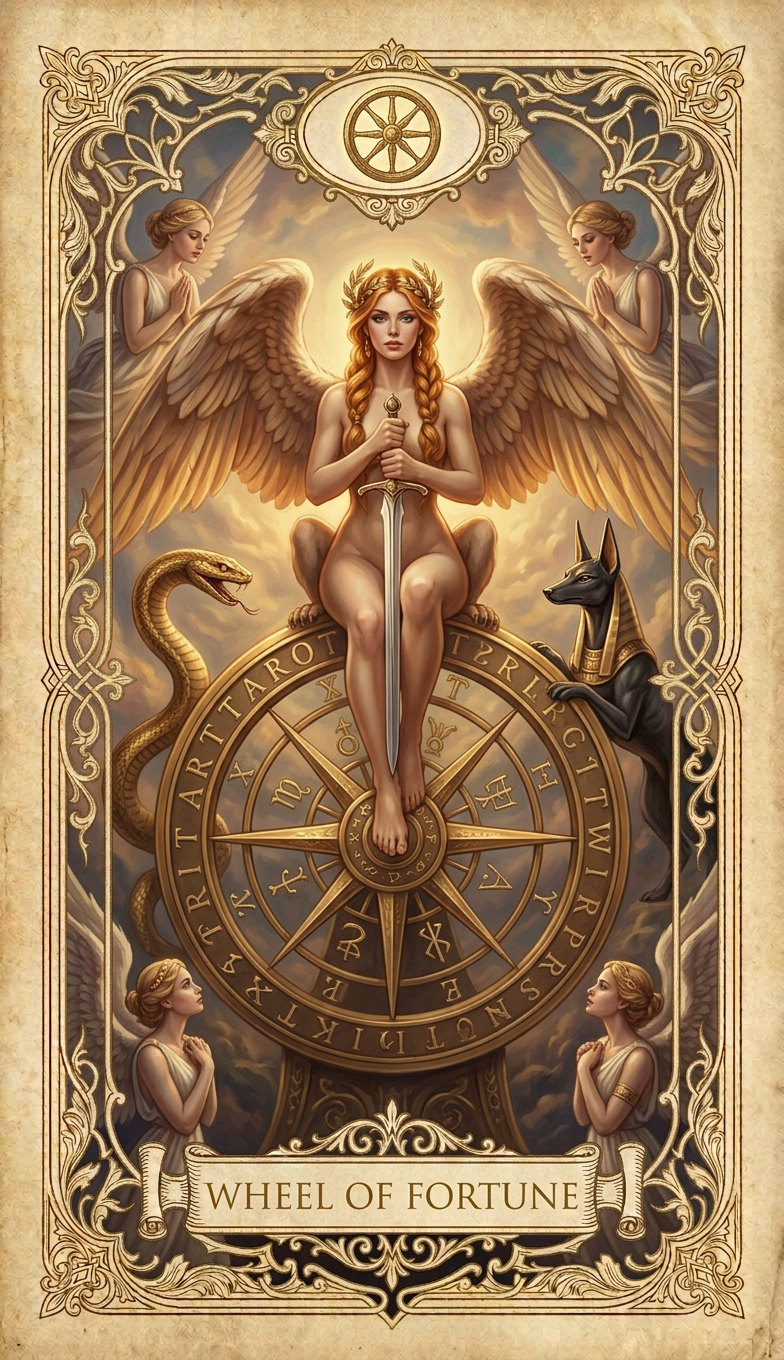
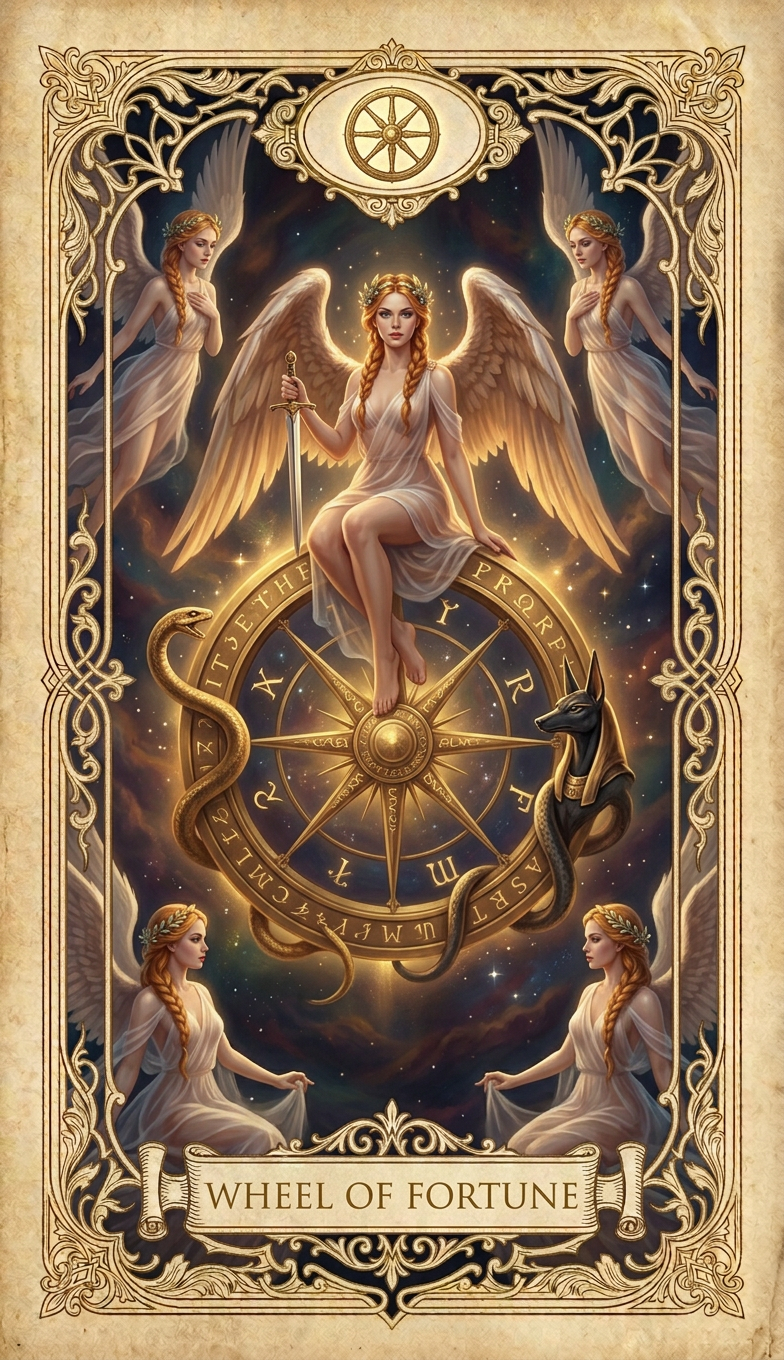
Rework The Emperor, Wheel of Fortune, Temperance
- The Emperor: softer, serene demeanor; clothing minimized to a transparent
  silk veil slipping off one shoulder (RMSE 0.020).
- Wheel of Fortune: regenerated (sphinx in sheer silk atop the wheel,
  graceful silk-clad winged watchers; RMSE 0.020).
- Temperance: regenerated with a graceful new pose — one foot on the rock,
  one in the pool, leaning gently forward pouring between two chalices
  (RMSE 0.034).

diff --git a/cards/index.html b/cards/index.html
@@ -110,7 +110,7 @@
             <div class="card-details">
                 <div class="card-title">THE EMPEROR</div>
                 <div class="card-meta"><strong>Độ tuổi:</strong> 25 years old &bull; <strong>Huy hiệu:</strong> a ram's head</div>
-                <div class="card-scene">a commanding 25-year-old female emperor, a crimson velvet mantle slipping from her bare shoulders and a sheer golden drape clinging over her sculpted bare torso, seated resolutely on a stone throne carved with ram heads, holding an ankh scepter in one hand, barren rugged mountains behind her</div>
+                <div class="card-scene">a serene 25-year-old female emperor reclining gracefully on a stone throne carved with ram heads, draped only in a diaphanous transparent silk veil so fine it clings to her soft curves and glows with warm light against her skin, the gossamer fabric slipping from one shoulder, holding an ankh scepter loosely in one hand, barren rugged mountains behind her</div>
             </div>
         </div>
         <div class="card-item">
@@ -158,7 +158,7 @@
             <div class="card-details">
                 <div class="card-title">WHEEL OF FORTUNE</div>
                 <div class="card-meta"><strong>Độ tuổi:</strong> 22 years old &bull; <strong>Huy hiệu:</strong> a spoked golden wheel</div>
-                <div class="card-scene">a great spinning wheel of fortune inscribed with mystic letters, a winged female sphinx holding an upright sword atop it, a rising golden serpent on one side and a jackal deity on the other, four winged female watchers at the corners</div>
+                <div class="card-scene">a great golden wheel of fortune inscribed with mystic letters, a serene winged female sphinx draped in sheer transparent silk atop it holding a single upright sword, a rising golden serpent on one side and a jackal deity on the other, four graceful winged female watchers in flowing transparent silk at the four corners</div>
             </div>
         </div>
         <div class="card-item">
@@ -190,7 +190,7 @@
             <div class="card-details">
                 <div class="card-title">TEMPERANCE</div>
                 <div class="card-meta"><strong>Độ tuổi:</strong> 22 years old &bull; <strong>Huy hiệu:</strong> a triangle within a square</div>
-                <div class="card-scene">a graceful winged adult figure with long loosened hair, wearing a sheer antique drape, standing balanced on one foot atop the rock with her other leg lifted gracefully behind her and her back arched, both arms raised pouring a continuous arc of water between two golden chalices, irises blooming around the pool, warm sepia and ochre light</div>
+                <div class="card-scene">a graceful winged figure with long loosened hair, draped in a diaphanous transparent silk veil, standing serenely with one foot resting on the rock and the other dipping into the pool below, leaning gently forward as she pours a smooth continuous stream of water between two golden chalices held in her open hands, irises blooming around the pool, warm sepia and ochre light</div>
             </div>
         </div>
         <div class="card-item">
